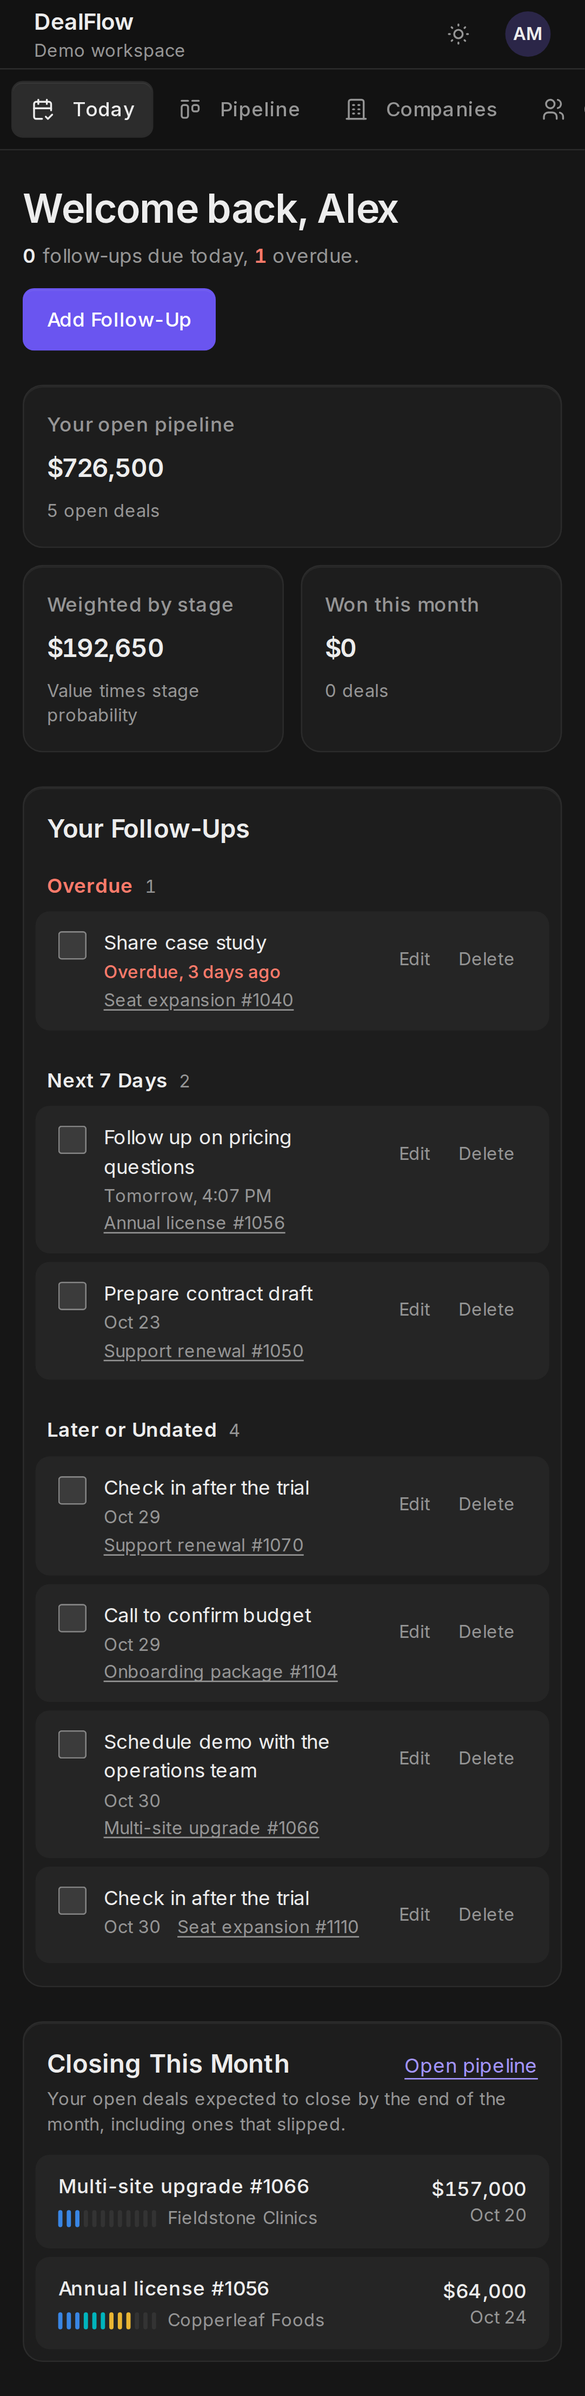
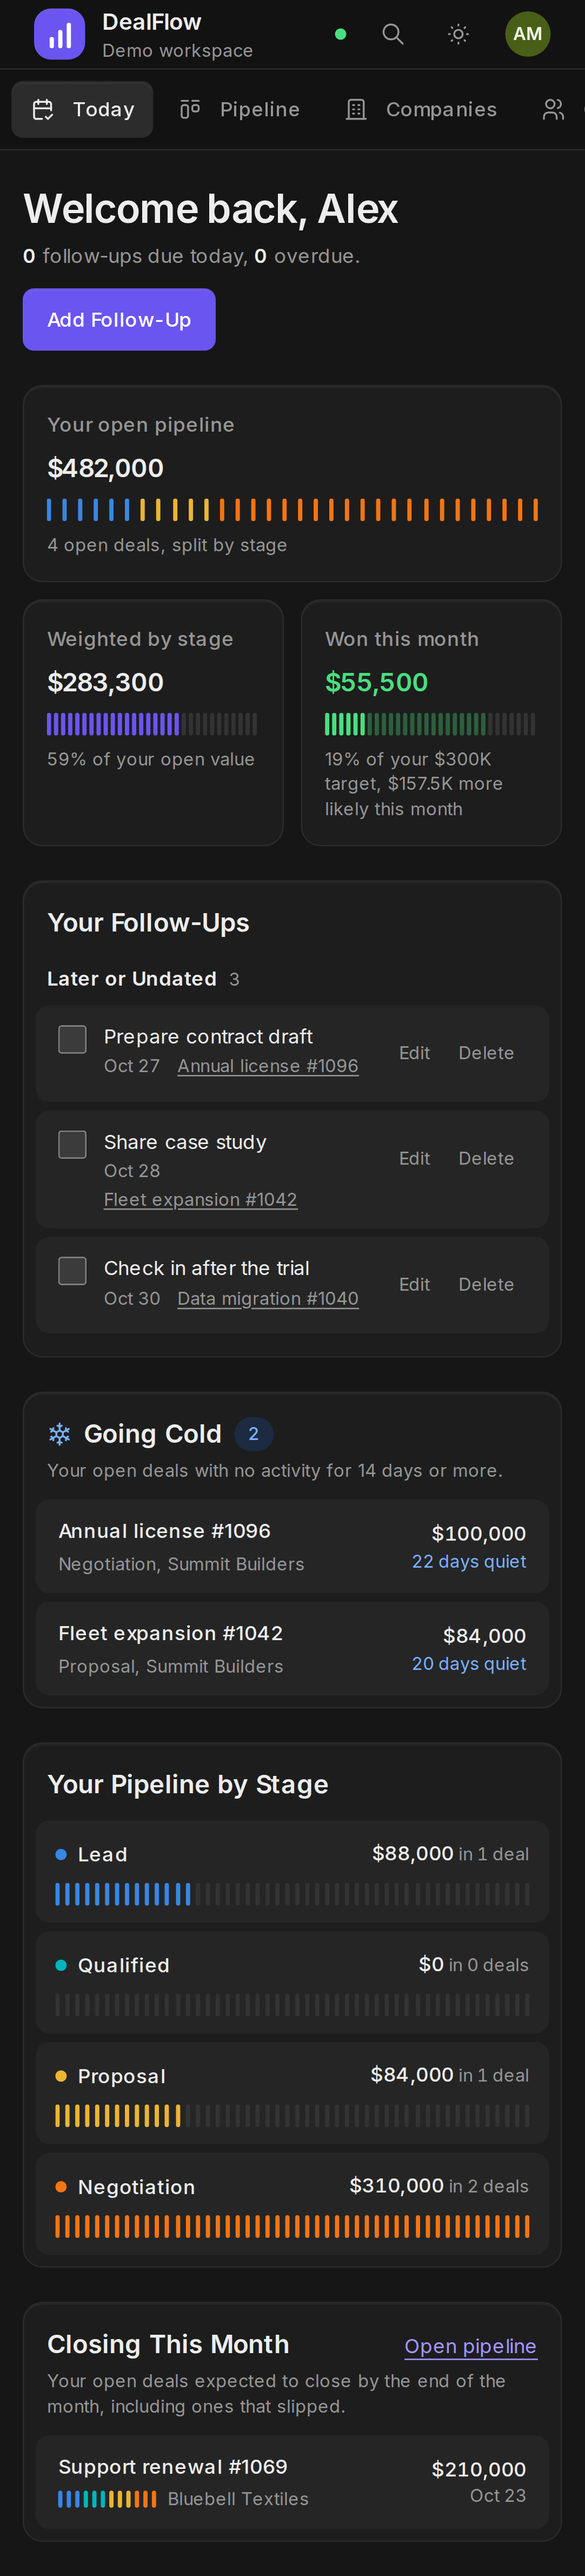
docs: live updates, search, targets, going cold and CSV in the README

diff --git a/frontend/src/components/command-palette.tsx b/frontend/src/components/command-palette.tsx
@@ -197,7 +197,8 @@ export function CommandPalette() {
                 placeholder="Search deals, companies, people…"
                 autoComplete="off"
                 spellCheck={false}
-                className="text-lead placeholder:text-muted h-14 min-w-0 flex-1 bg-transparent focus-visible:outline-none"
+                style={{ outline: "none" }}
+                className="text-lead placeholder:text-muted h-14 min-w-0 flex-1 bg-transparent"
               />
               <kbd className="border-line text-meta text-muted rounded-md border px-1.5">Esc</kbd>
             </div>

diff --git a/README.md b/README.md
@@ -1,7 +1,8 @@
 # DealFlow CRM
 
-A multi-tenant sales CRM for small B2B sales teams: a drag-and-drop pipeline, companies and
-contacts, follow-up tasks, notes, a full change history and sales reports.
+A multi-tenant sales CRM for small B2B sales teams: a drag-and-drop pipeline that updates
+live for the whole team, Cmd+K search, deals that flag themselves when they go cold, monthly
+targets, CSV import and export, follow-ups, notes, a full change history and sales reports.
 
 The backend is written in Rust (Axum, SQLx, PostgreSQL). The web app is Next.js with
 TypeScript.
@@ -16,20 +17,34 @@ sign-in page. The demo workspace is reset every night.
 
 ## What it does
 
-- **Today**: your overdue and upcoming follow-ups, and the deals you expect to close this month.
+- **Live for the whole team**: when a teammate moves a deal, adds a note or completes a
+  follow-up, every open screen updates within a second, and the header shows who else is
+  looking at the same record.
+- **Cmd+K**: one box searches deals, companies and people, tolerates typos ("copperleef"
+  finds Copperleaf), and runs actions like "New deal" or "Switch theme".
+- **Today**: your follow-ups, progress toward this month's target, your pipeline by stage,
+  deals closing this month, and deals going cold.
+- **Going cold**: an open deal with no notes, completed follow-ups or changes for 14 days
+  (adjustable per workspace) gets a snowflake on the board and a nudge on its page.
 - **Pipeline**: a kanban board of deals by stage. Drag with a mouse, press and hold on touch
   screens, or focus a deal's handle and press the left or right arrow key.
 - **Deals, companies, contacts**: linked records with notes, follow-ups and a readable history
   of every change.
 - **Reports**: open and weighted pipeline, a stage-by-stage conversion funnel, a six-month
-  forecast by expected close date, and results per salesperson for managers.
+  forecast by expected close date, monthly targets per rep (managers set them inline), and
+  results per salesperson for managers.
+- **CSV import and export**: map columns, check the file first (nothing is saved until you
+  confirm), then import; existing contacts match by email and companies by domain or name.
+  Every list exports to a spreadsheet-safe CSV.
 - **Settings**: invite teammates with a role, rename, reorder and re-weight pipeline stages.
 
-| Today | Reports, dark theme |
+| Today | Cmd+K search |
 |---|---|
-| ![Today](docs/screenshots/today.png) | ![Reports](docs/screenshots/reports-light.png) |
-| **Deal** | **Phone** |
-| ![Deal](docs/screenshots/deal.png) | ![Phone](docs/screenshots/mobile-today.png) |
+| ![Today](docs/screenshots/today.png) | ![Search](docs/screenshots/palette.png) |
+| **Reports, light theme** | **Deal** |
+| ![Reports](docs/screenshots/reports-light.png) | ![Deal](docs/screenshots/deal.png) |
+
+<img src="docs/screenshots/mobile-today.png" alt="Today on a phone" width="320">
 
 Screenshots are produced by the end-to-end suite against the seeded demo workspace.
 
@@ -37,10 +52,12 @@ Screenshots are produced by the end-to-end suite against the seeded demo workspa
 
 ```
 Browser ──► Next.js (React, TanStack Query)
-              │  /api/auth/*   sets httpOnly session cookies
-              │  /api/v1/*     same-origin proxy, adds the bearer token
-              ▼
-           Rust API (Axum) ──► PostgreSQL 16
+   ▲          │  /api/auth/*   sets httpOnly session cookies
+   │          │  /api/v1/*     same-origin streaming proxy, adds the bearer token
+   │          ▼
+   └─ SSE ── Rust API (Axum) ──► PostgreSQL 16
+                  ▲                    │
+                  └── LISTEN ◄─ NOTIFY ┘  (trigger on every audit row)
 ```
 
 ```
@@ -50,6 +67,7 @@ backend/
   src/auth/          JWT access tokens, rotating refresh tokens, Argon2id hashing
   src/authz.rs       every role rule in one place
   src/audit.rs       field-level diffs written in the same transaction as the change
+  src/live.rs        LISTEN/NOTIFY fan-out to server-sent events, presence
   src/bin/seed.rs    deterministic demo workspace with realistic stage history
   tests/api/         end-to-end tests against a real database
 frontend/
@@ -89,6 +107,24 @@ transaction as the change, and a database trigger rejects any `UPDATE` on audit 
 deal as having passed a stage if it ever reached that stage or a later one, so skipping a
 column on the board does not distort conversion. Money is stored as integer minor units in a
 single workspace currency, so sums are exact.
+
+**Live updates ride on the audit log.** Every change already writes an audit row inside its
+transaction, so a trigger on that table calls `pg_notify`. PostgreSQL delivers the
+notification only if the transaction commits, which means a browser never hears about a
+change that rolled back. Each API instance holds one `LISTEN` connection and fans
+notifications out to server-sent event streams, filtered to the caller's workspace. Browsers
+batch the events and refetch only the affected queries; a stream that falls behind gets a
+single "resync" instead of a flood. Streams close after ten minutes so the access token is
+re-checked, and the client reconnects with backoff.
+
+**Search is one trigram query per kind.** Deals, companies and contacts are matched with
+`ILIKE` for exact substrings and `pg_trgm` word similarity for typos, both served by the same
+GIN indexes, inside a transaction that sets the similarity threshold locally.
+
+**Imports preview by rolling back.** A dry run executes the real import, every validation,
+dedupe and insert, inside a transaction and then rolls it back. The preview cannot disagree
+with what the import will do, because it is the import. Exported cells that start with `=`,
+`+`, `-` or `@` are prefixed so a spreadsheet will not run them as formulas.
 
 **Errors have one shape.** Every failure is `{"error": {"code", "message", "fields"}}`.
 Constraint violations are mapped to field-level validation errors by constraint name.
@@ -136,14 +172,18 @@ role rules. The integration suite starts a fresh, migrated PostgreSQL database f
 and drives the real router: registration and login, refresh-token rotation and reuse
 detection, deactivation, tenant isolation, cross-tenant references, role permissions,
 optimistic concurrency, stage moves, the audit trail and its immutability, search and
-pagination, tasks, notes, pipeline reordering, and the numbers behind every report.
+pagination, tasks, notes, pipeline reordering, the numbers behind every report, live events
+that never cross workspaces, presence, typo-tolerant search, targets, CSV dry runs and
+dedupe, formula-safe export, and last-activity tracking.
 
 The end-to-end suite boots the whole stack in CI (PostgreSQL, the API with demo data, the
 production Next.js build) and drives it with Playwright on desktop and phone viewports. It
 visits every screen in both themes and fails on any console error, any sideways scrolling on
 a phone, or any serious WCAG 2.1 AA violation reported by axe. It also moves a deal across the
 board with the arrow keys, completes a follow-up, adds a note, checks form validation, the theme
-toggle and signing out.
+toggle and signing out, finds a company through Cmd+K with a typo, watches a deal created by
+another user appear on the open board, imports a CSV through its preview and downloads an
+export.
 
 CI runs `rustfmt`, `clippy -D warnings`, the full test suite and the seed script for the
 backend, and Prettier, ESLint, a production build and `tsc` for the frontend.
